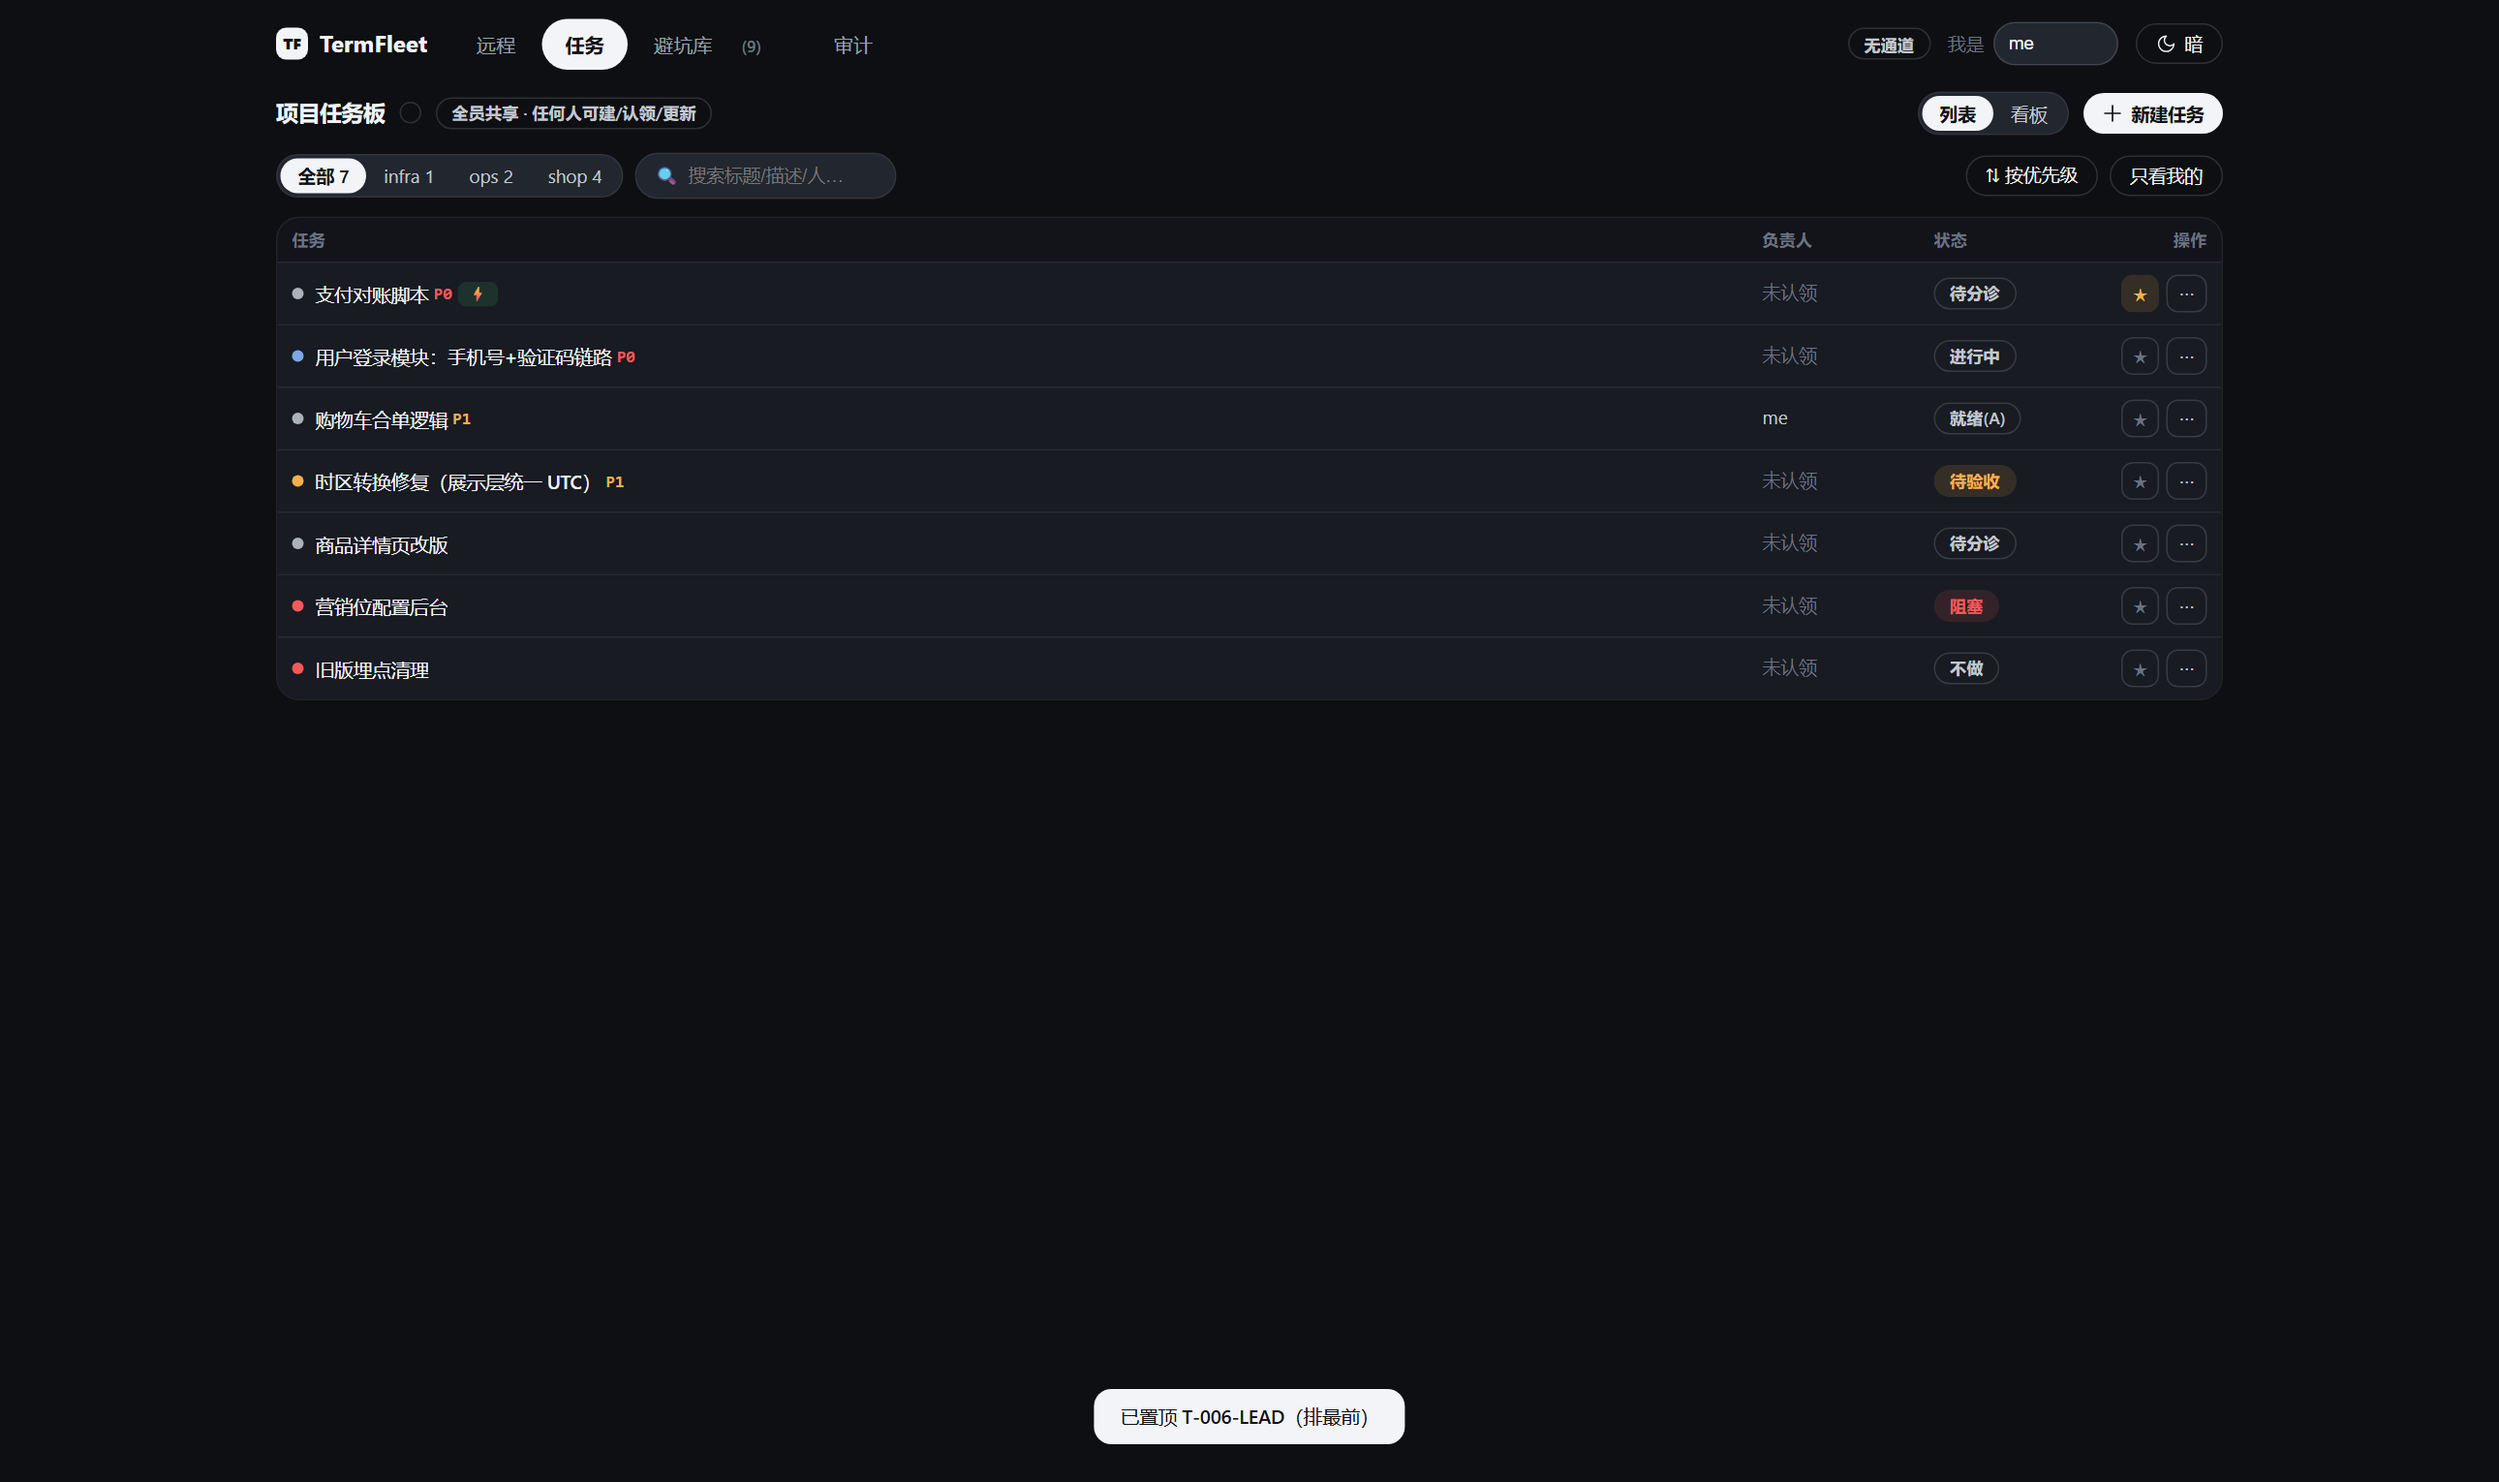
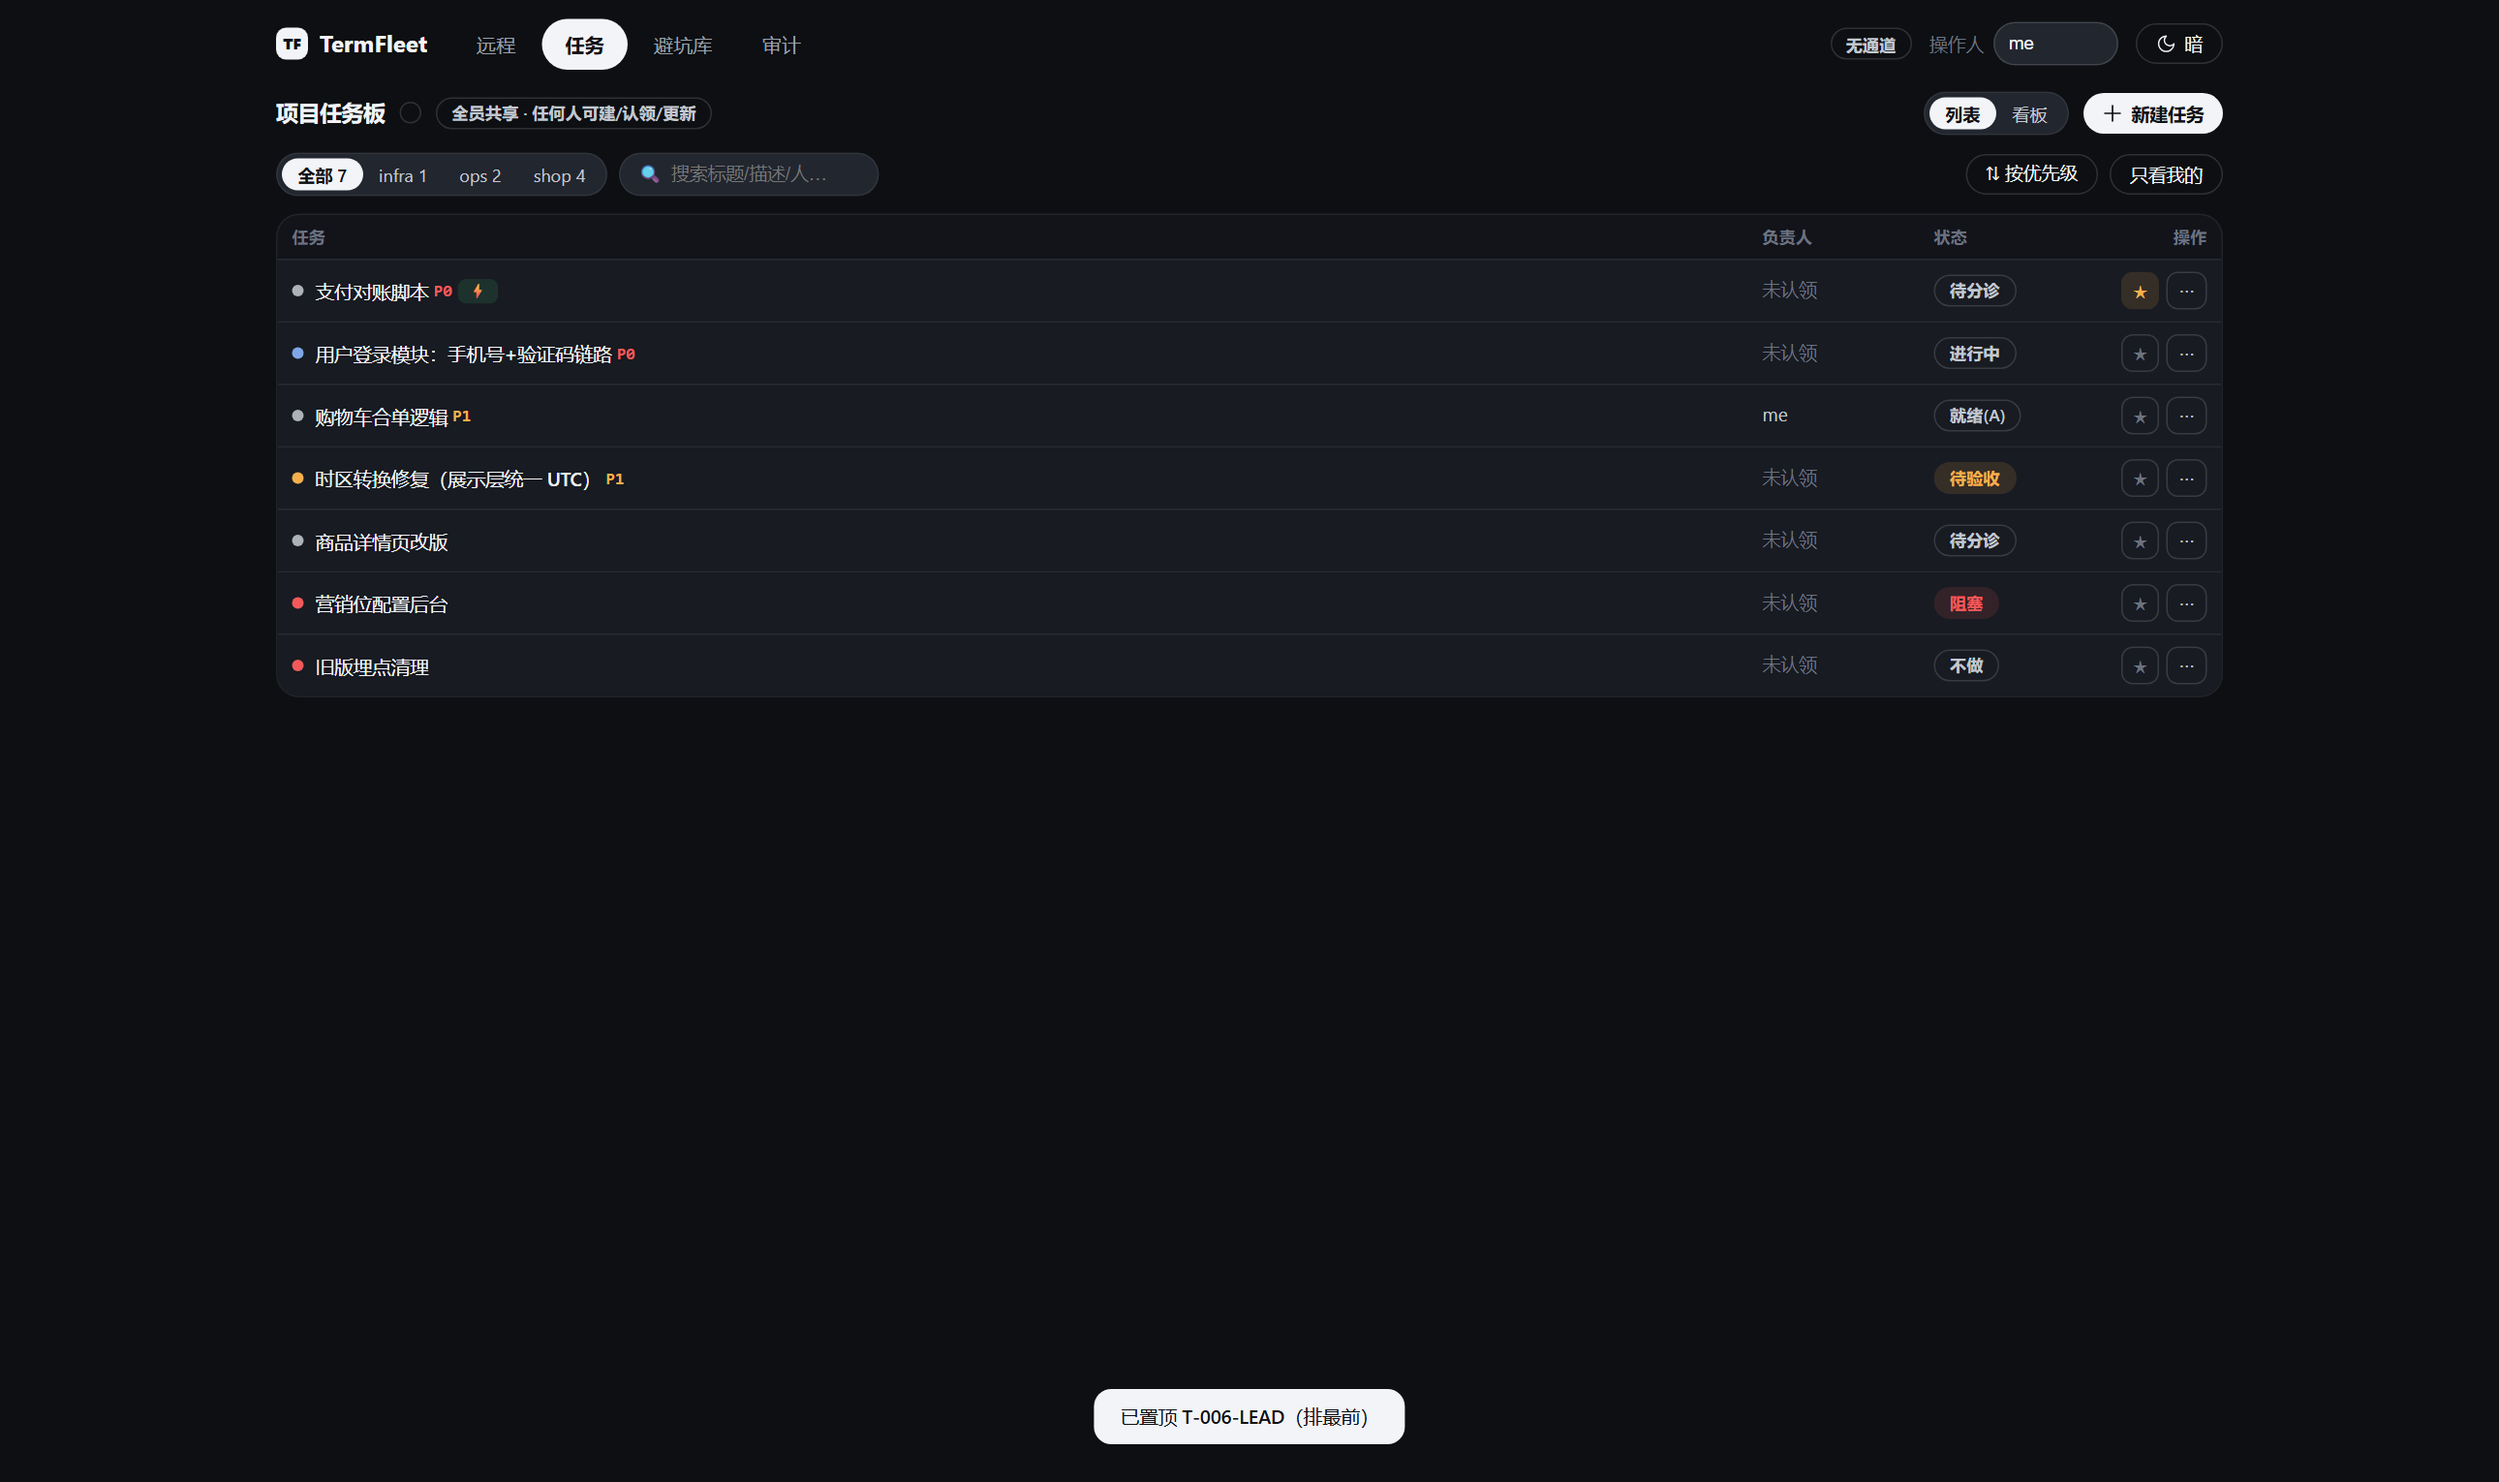
避坑库页样式修正(用户指出的三处): ①「我是 me」→「操作人」署名框+tooltip 说明(写入审计与任务历史) ②nav 避坑库计数与 dev-speak 统计行(proposed N → implemented M / rejected K)移除——计数只保留筛选 chips 一处(全部/待定/已生效/已否决/已归档) ③工具行控件高度统一 30px(seg chips/search/校验/新增笔记); seal 同步

diff --git a/lib/app.html b/lib/app.html
@@ -152,10 +152,11 @@ details.adv .ain{display:grid;gap:7px}
 @keyframes tfnotiin{from{opacity:0;transform:translateY(8px)}to{opacity:1;transform:translateY(0)}}
 /* ── 任务页 ── */
 .tbar{display:flex;align-items:center;gap:8px;flex-wrap:wrap;margin-bottom:12px}
-.seg{display:flex;background:var(--card2);border:1px solid var(--border);border-radius:999px;padding:2px;flex-wrap:wrap}
-.seg button{border:0;background:transparent;color:var(--label2);padding:4px 12px;border-radius:999px;font-size:12.5px}
+.seg{display:flex;background:var(--card2);border:1px solid var(--border);border-radius:999px;padding:3px;flex-wrap:wrap;align-items:center;height:30px;box-sizing:border-box}
+.seg button{border:0;background:transparent;color:var(--label2);padding:3px 11px;border-radius:999px;font-size:12px}
+.seg button.on{font-weight:600}
 .seg button.on{background:var(--brand);color:var(--brand-fg);font-weight:600}
-.search{display:flex;align-items:center;gap:6px;background:var(--card2);border:1px solid var(--border);border-radius:999px;padding:0 12px;height:32px;color:var(--caption);font-size:12.5px;box-sizing:border-box}
+.search{display:flex;align-items:center;gap:6px;background:var(--card2);border:1px solid var(--border);border-radius:999px;padding:0 12px;height:30px;color:var(--caption);font-size:12.5px;box-sizing:border-box}
 .search input{border:0;background:transparent;color:var(--label1);outline:none;font-size:12.5px;width:130px}
 .board{display:flex;gap:12px;overflow-x:auto;padding:2px 2px 14px;align-items:flex-start;min-height:460px}
 .bcol{flex:0 0 268px;width:268px;background:var(--panel);border:1px solid var(--border);border-radius:14px;padding:10px;display:flex;flex-direction:column;gap:8px;max-height:calc(100vh - 300px)}
@@ -314,12 +315,12 @@ details.adv .ain{display:grid;gap:7px}
     <div class="nav">
       <span id="navRemote" onclick="pg('remote')">远程</span>
       <span class="on" id="navTask" onclick="pg('task')">任务</span>
-      <span id="navMem" onclick="pg('mem')">避坑库 <span id="memCnt" style="font-size:11px;opacity:.7"></span></span>
+      <span id="navMem" onclick="pg('mem')">避坑库</span>
       <span id="navAudit" onclick="pg('audit')">审计</span>
     </div>
     <span class="spacer"></span>
     <span class="pill" id="chanPill">无通道</span>
-    <span class="me">我是 <input id="meInput" title="显示名（写入操作历史/审计）"></span>
+    <span class="me" title="操作人署名——写入审计与任务历史">操作人 <input id="meInput" placeholder="署名"></span>
     <button class="btn ghost sm" id="themeBtn"></button>
   </div>
 
@@ -440,9 +441,8 @@ details.adv .ain{display:grid;gap:7px}
       <div class="seg" id="memCatSeg"></div>
       <div class="search">🔍<input id="memSearch" placeholder="搜索教训/正文…"></div>
       <span class="spacer"></span>
-      <span class="pill" id="memStat"></span>
-      <button class="btn ghost sm" id="memVerifyBtn"></button>
-      <button class="btn sm" id="newLessonBtn"></button>
+      <button class="btn ghost sm" id="memVerifyBtn" title="校验门：全部笔记须符合 wnlds 规范（proposed 须含备选方案段）"></button>
+      <button class="btn sm" id="newLessonBtn" title="新增一条避坑/决策笔记"></button>
     </div>
     <div class="lesson-grid" id="lessonGrid"></div>
   </div>
@@ -1242,7 +1242,6 @@ function memVisible(){ return MEM.lessons.filter(function(l){
   if(MEM.q){ var q=MEM.q.toLowerCase(); var hay=((l.title||'')+' '+(l.body||'')+' '+(l.state||'')).toLowerCase(); if(hay.indexOf(q)<0)return false; }
   return true; }); }
 function renderMem(){
-  document.getElementById('memCnt').textContent=MEM.lessons.length?'('+MEM.lessons.length+')':'';
   // 状态筛选 + 统计（决策看板）
   var ss=document.getElementById('memStateSeg'); ss.innerHTML='';
   var mkS=function(k,label){ var b=document.createElement('button'); b.textContent=label;
@@ -1250,7 +1249,6 @@ function renderMem(){
   var cnt={}; MEM.lessons.forEach(function(l){ cnt[l.state]=(cnt[l.state]||0)+1 });
   mkS('*','全部 '+MEM.lessons.length);
   Object.keys(NSTATE).forEach(function(s){ mkS(s, NSTATE[s][0]+' '+(cnt[s]||0)); });
-  document.getElementById('memStat').textContent='proposed '+((cnt.proposed||0))+' → implemented '+(cnt.implemented||0)+' / rejected '+(cnt.rejected||0);
   // 分类筛选
   var cs=document.getElementById('memCatSeg'); cs.innerHTML='';
   var mkC=function(k,label){ var b=document.createElement('button'); b.textContent=label;
